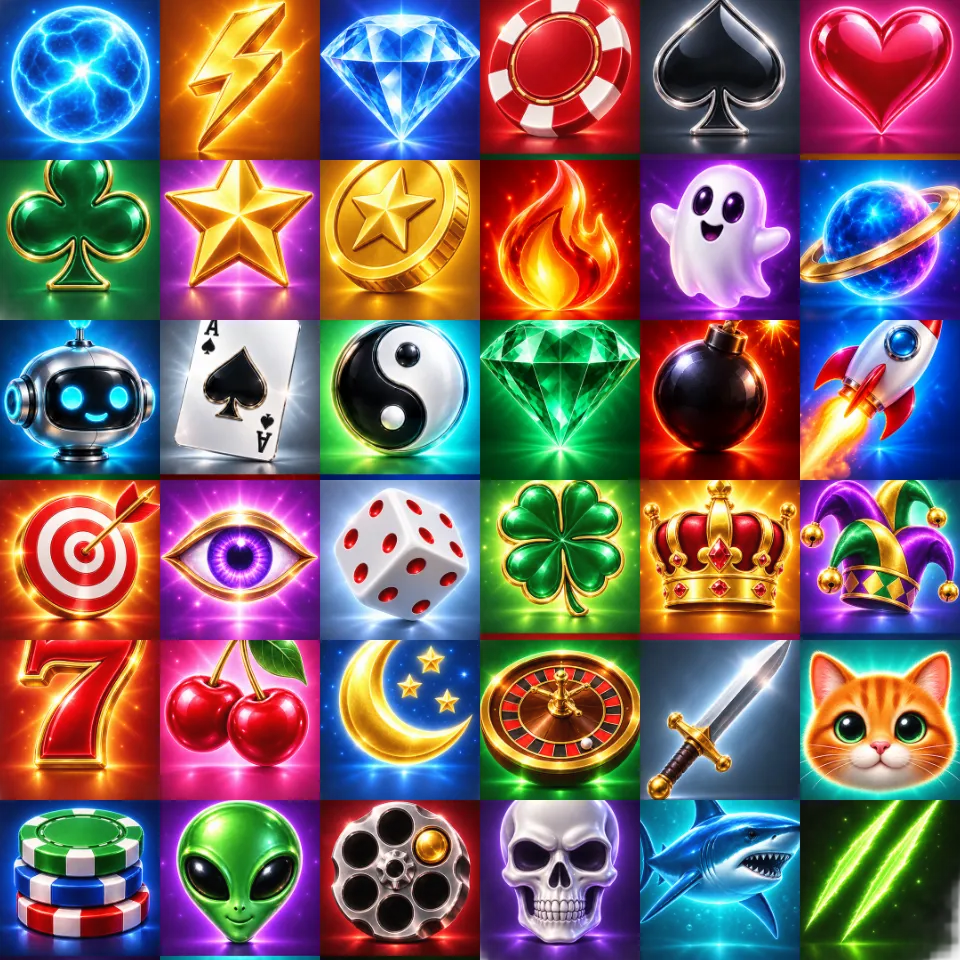
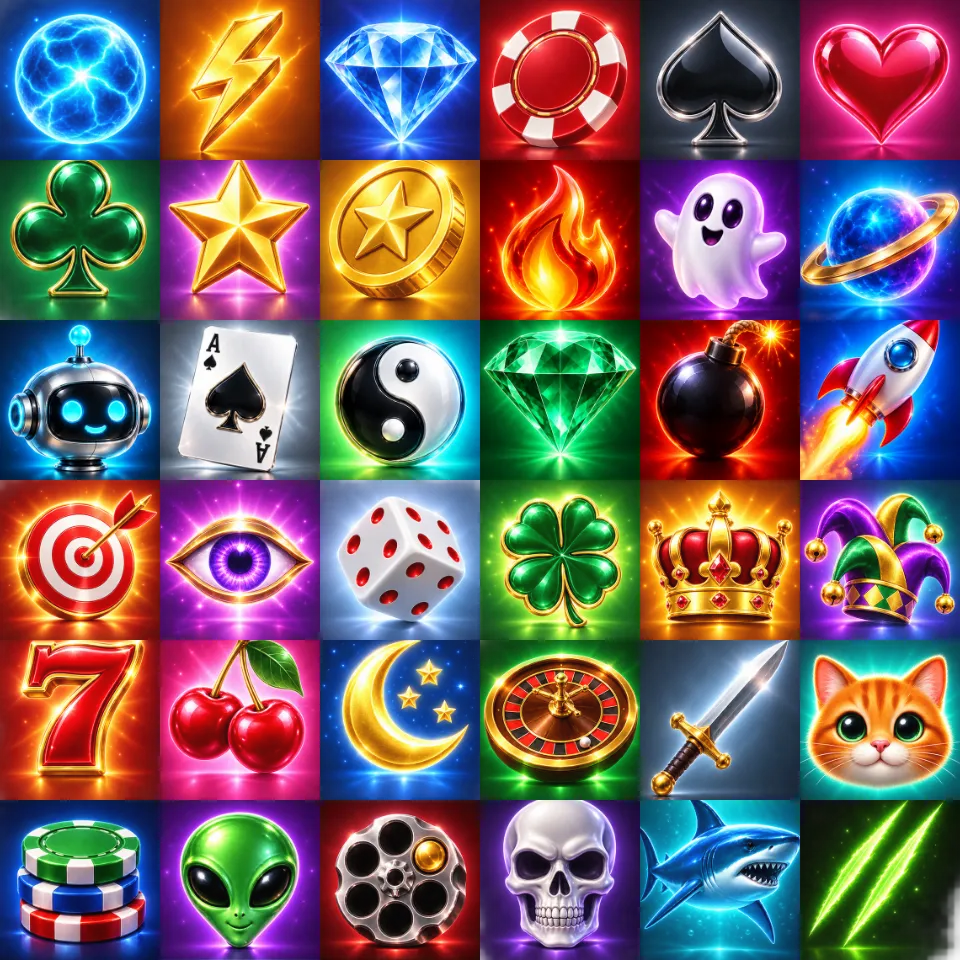
Case battles stay in sync across players; battle timeline shows case contents; inspector shows how many of a case are in the battle; re-centred profile pictures
- Online rounds play in the server's time slot: each animation is shortened to finish before the next reveal, a round whose slot has passed is shown instantly, and clients poll right after each scheduled reveal. Default ROUND_MS is now 9000 (turbo 4500) so a standard round's animation fits.
- Clicking a case in a running battle's timeline (online or demo) opens its contents and odds.
- The creator's case inspector shows how many copies are in the battle being built (and when it is full).
- Avatar atlas re-cropped around each painted tile's real centre (the sheets' grid lines are not at thirds); Spectrum/Hologram frames no longer cover the picture.

diff --git a/app.js b/app.js
@@ -683,11 +683,19 @@ async function animateRouletteTrack(track, viewport, targetIndex, seed, audioTra
 }
 
 // These reels decorate an already-authoritative server round. Never draw a result here.
-async function animateOnlineRound(room, battle, round, signal) {
+/**
+ * Plays one server round. `budgetMs` is the time left before the server reveals the next round;
+ * the spins and number roll are shortened to finish inside it (no budget = full length).
+ */
+async function animateOnlineRound(room, battle, round, signal, budgetMs = Infinity) {
   const item = CASES.find((candidate) => candidate.id === round.caseId);
   const target = 34;
   const turbo = battle.speed === "turbo" || fastReveal;
   const bonus = round.results.filter((result) => result.bonus);
+  const spinMs = turbo ? 950 : 5200, bonusSpinMs = turbo ? 950 : 3900, pauseMs = turbo ? 180 : 520;
+  // Fixed costs per spin (shock + settle) and after the spins (number reveal + totals count-up).
+  const nominal = 800 + spinMs + (bonus.length ? pauseMs + 800 + bonusSpinMs : 0) + (turbo ? 720 : 2000) + 750;
+  const scale = Number.isFinite(budgetMs) ? Math.max(0.15, Math.min(1, (budgetMs - 400) / nominal)) : 1;
   const status = room.querySelector(".online-playback-status");
   status.textContent = `ROUND ${round.index + 1} · OPENING ${item.name.toUpperCase()}`;
   const spin = async (results, bonusSpin = false) => {
@@ -708,14 +716,14 @@ async function animateOnlineRound(room, battle, round, signal) {
         viewport.classList.add(item.bonusType === "nested" ? "nested-bonus-active" : "gold-bonus-active");
         viewport.insertAdjacentHTML("beforeend", item.bonusType === "nested" ? `<div class="battle-gold-trigger battle-nested-trigger"><b>${caseImage(item)}</b><span>INNER CASE<small>BONUS SPIN</small></span></div>` : '<div class="battle-gold-trigger"><b class="gold-medallion">G</b><span>GOLD COIN<small>BONUS SPIN</small></span></div>');
       }
-      const duration = turbo ? 950 : bonusSpin ? 3900 : 5200;
+      const duration = Math.round((bonusSpin ? bonusSpinMs : spinMs) * scale);
       return animateRouletteTrack(track, viewport, target, `${battle.id}:${round.index}:${result.seat}:${bonusSpin}`, index === 0, duration, signal);
     }));
   };
   await spin(round.results);
   if (signal.aborted) return;
   if (bonus.length) {
-    await new Promise((resolve) => setTimeout(resolve, turbo ? 180 : 520));
+    await new Promise((resolve) => setTimeout(resolve, pauseMs * scale));
     if (signal.aborted) return;
     await spin(bonus, true);
   }
@@ -728,7 +736,7 @@ async function animateOnlineRound(room, battle, round, signal) {
   });
   status.textContent = "TRAITS LOCKED · ROLLING NUMBERS";
   const nodes = round.results.map((result) => room.querySelector(`#online-duel-number-${result.seat + 1}`));
-  await animateBattleDigits(nodes, round.results.map((result) => result.number), turbo, signal);
+  await animateBattleDigits(nodes, round.results.map((result) => result.number), turbo, signal, scale);
   if (signal.aborted) return;
   const counts = round.results.flatMap((result) => {
     const n = result.seat + 1;
@@ -744,13 +752,13 @@ async function animateOnlineRound(room, battle, round, signal) {
   await Promise.all(counts);
 }
 
-async function animateBattleDigits(numberNodes, numbers, turbo, signal) {
+async function animateBattleDigits(numberNodes, numbers, turbo, signal, scale = 1) {
   const cells = numberNodes.map((node) => [...node.children]);
   const timer = setInterval(() => cells.forEach((row) => row.slice(0, 6).forEach((cell) => { cell.textContent = Math.floor(Math.random() * 10); })), turbo ? 48 : 60);
   const stop = () => clearInterval(timer);
   signal?.addEventListener("abort", stop, { once: true });
   try {
-    await new Promise((resolve) => setTimeout(resolve, turbo ? 420 : 1200));
+    await new Promise((resolve) => setTimeout(resolve, (turbo ? 420 : 1200) * scale));
     stop();
     if (signal?.aborted) return;
     const targets = numbers.map(String);
@@ -765,7 +773,7 @@ async function animateBattleDigits(numberNodes, numbers, turbo, signal) {
         numberNodes[player].style.setProperty("--duel-count", target.length);
       });
       tone(170 + digit * 38, .08, "triangle", .035);
-      await new Promise((resolve) => setTimeout(resolve, turbo ? 50 : 130));
+      await new Promise((resolve) => setTimeout(resolve, (turbo ? 50 : 130) * scale));
     }
     if (signal?.aborted) return;
     cells.forEach((row, player) => {
@@ -1088,7 +1096,7 @@ function renderOnlineBattle(battle, opening, user, showSettlement) {
   return `<div class="battle-live-shell">
     <div class="battle-active-header"><div class="battle-round-counter"><span class="label">MATCH PROGRESS</span><strong class="count">${battle.state === "settled" ? "BATTLE COMPLETE" : `ROUND ${currentIndex + 1} / ${battle.caseIds.length}`}</strong><small>${escapeHtml(current.name.toUpperCase())}</small></div><div class="battle-cases-timeline" aria-label="Battle case timeline">${groups.map((group) => {
       const item = CASES.find((item) => item.id === group.id);
-      return `<div class="timeline-case-node ${battle.rounds.length > group.end ? "is-completed" : currentIndex >= group.start && currentIndex <= group.end ? "is-active" : ""}" style="--case-accent:${item.accent};--case-secondary:${item.secondary}" title="${escapeHtml(item.name)}"><div class="timeline-case-art">${caseImage(item)}</div><b class="case-multiplier-pill">×${group.quantity}</b><small>${escapeHtml(item.name)}</small></div>`;
+      return `<div class="timeline-case-node ${battle.rounds.length > group.end ? "is-completed" : currentIndex >= group.start && currentIndex <= group.end ? "is-active" : ""}" data-timeline-case="${item.id}" data-quantity="${battle.caseIds.filter((id) => id === item.id).length}" role="button" tabindex="0" style="--case-accent:${item.accent};--case-secondary:${item.secondary}" title="View contents of ${escapeHtml(item.name)}"><div class="timeline-case-art">${caseImage(item)}</div><b class="case-multiplier-pill">×${group.quantity}</b><small>${escapeHtml(item.name)}</small></div>`;
     }).join("")}</div><div class="battle-header-total"><span>TOTAL CASE VALUE</span><strong>${formatCredits(battle.entry)} CR</strong></div></div>
     <div class="battle-command online-room-meta"><div><span>ROUND</span><strong>${battle.rounds.length}/${battle.caseIds.length} REVEALED</strong></div><div><span>${battle.state === "settled" ? "FINAL POT" : "LIVE POT"}</span><strong class="online-pot">${formatCredits(pot)} CR</strong></div><div><span>MODE</span><strong>${escapeHtml(BATTLE_FORMATS[battle.format].label)} · ${battle.mode.toUpperCase()}</strong></div><div><span>SPEED</span><strong>${battle.speed.toUpperCase()}</strong></div><div class="battle-wallet"><span>YOUR ONLINE CREDITS</span><strong class="online-balance">${user ? `${formatCredits(user.balance)} CR` : "SPECTATING"}</strong></div></div>
     <div class="battle-ledger"><span>ENTRY <b>${formatCredits(battle.entry)} CR · ${battle.players.length} PLAYERS</b></span><span>SETTLEMENT <b>AUTOMATIC · SERVER VERIFIED</b></span></div>
@@ -1527,6 +1535,7 @@ function renderBattleBasket() {
     badge.hidden = count === 0;
   });
   $("#battle-clear-cases").disabled = !battleCaseIds.length;
+  renderInspectorCount();
   renderBattleCost();
 }
 
@@ -1544,11 +1553,30 @@ function renderBattleCreatorCases() {
   renderBattleBasket();
 }
 
-function inspectBattleCase(caseId) {
+/**
+ * Case contents and odds. From the creator it can add the case and shows how many are in the
+ * battle being built; from a running battle's timeline (`inBattle` = copies in that battle) it is read-only.
+ */
+function inspectBattleCase(caseId, { inBattle = null } = {}) {
   const item = CASES.find((candidate) => candidate.id === caseId);
   if (!item) return;
-  $("#battle-case-inspector-content").innerHTML = `<header style="--case-accent:${item.accent};--case-secondary:${item.secondary}"><div class="battle-inspector-art">${caseImage(item)}</div><div><span>${item.category} · ${item.risk.toUpperCase()} RISK</span><h2>${escapeHtml(item.name)}</h2><strong>${formatCredits(item.cost)} CR</strong></div><button type="button" data-add-battle-case="${item.id}">+ ADD TO BATTLE</button></header><div class="battle-inspector-odds"><span>CASE CONTENTS</span><b>FINAL ODDS</b></div><ol>${item.drops.map((drop) => `<li class="${drop.rarity}"><img src="${traitImage(drop.id)}" alt="" /><span><strong>${escapeHtml(drop.name)}</strong><small>${drop.rarity} · ${Math.round(drop.expectedEp).toLocaleString()} AVG EP</small></span><b>${formatChance(drop.finalChance)}%</b></li>`).join("")}</ol>`;
-  $("#battle-case-inspector").showModal();
+  const side = inBattle === null
+    ? `<div class="battle-inspector-add"><button type="button" data-add-battle-case="${item.id}">+ ADD TO BATTLE</button><small data-inspector-count="${item.id}"></small></div>`
+    : `<div class="battle-inspector-add"><small class="in-battle">×${inBattle} IN THIS BATTLE</small></div>`;
+  $("#battle-case-inspector-content").innerHTML = `<header style="--case-accent:${item.accent};--case-secondary:${item.secondary}"><div class="battle-inspector-art">${caseImage(item)}</div><div><span>${item.category} · ${item.risk.toUpperCase()} RISK</span><h2>${escapeHtml(item.name)}</h2><strong>${formatCredits(item.cost)} CR</strong></div>${side}</header><div class="battle-inspector-odds"><span>CASE CONTENTS</span><b>FINAL ODDS</b></div><ol>${item.drops.map((drop) => `<li class="${drop.rarity}"><img src="${traitImage(drop.id)}" alt="" /><span><strong>${escapeHtml(drop.name)}</strong><small>${drop.rarity} · ${Math.round(drop.expectedEp).toLocaleString()} AVG EP</small></span><b>${formatChance(drop.finalChance)}%</b></li>`).join("")}</ol>`;
+  renderInspectorCount();
+  if (!$("#battle-case-inspector").open) $("#battle-case-inspector").showModal();
+}
+
+/** "×2 IN THIS BATTLE" under the inspector's add button, kept in step with the basket. */
+function renderInspectorCount() {
+  const label = $("[data-inspector-count]");
+  if (!label) return;
+  const count = battleCaseIds.filter((id) => id === label.dataset.inspectorCount).length;
+  const full = battleCaseIds.length >= 20;
+  label.textContent = full ? `BATTLE FULL · ${count ? `×${count} OF THIS CASE` : "20 / 20 CASES"}` : count ? `×${count} IN THIS BATTLE · ${battleCaseIds.length} / 20 CASES` : "NOT IN THIS BATTLE YET";
+  label.classList.toggle("added", count > 0);
+  $("#battle-case-inspector [data-add-battle-case]").disabled = full;
 }
 
 function renderBattleTimeline() {
@@ -1561,7 +1589,7 @@ function renderBattleTimeline() {
     timeline.dataset.signature = signature;
     timeline.innerHTML = groups.map((group, index) => {
       const item = duelMatch.cases[group.start];
-      return `<div class="timeline-case-node" data-timeline-group="${index}" style="--case-accent:${item.accent};--case-secondary:${item.secondary}" title="${escapeHtml(item.name)}"><div class="timeline-case-art">${caseImage(item)}</div><b class="case-multiplier-pill">×${group.quantity}</b><small>${escapeHtml(item.name)}</small></div>`;
+      return `<div class="timeline-case-node" data-timeline-group="${index}" data-timeline-case="${item.id}" data-quantity="${ids.filter((id) => id === item.id).length}" role="button" tabindex="0" style="--case-accent:${item.accent};--case-secondary:${item.secondary}" title="View contents of ${escapeHtml(item.name)}"><div class="timeline-case-art">${caseImage(item)}</div><b class="case-multiplier-pill">×${group.quantity}</b><small>${escapeHtml(item.name)}</small></div>`;
     }).join("");
   }
   groups.forEach((group, index) => {
@@ -1613,6 +1641,17 @@ $("#battle-case-inspector").addEventListener("click", (event) => {
   if (event.target === $("#battle-case-inspector")) $("#battle-case-inspector").close();
 });
 $(".battle-inspector-close").addEventListener("click", () => $("#battle-case-inspector").close());
+// The inspector also opens during a battle, when the creator (its original parent) is hidden.
+document.body.append($("#battle-case-inspector"));
+const openTimelineCase = (node) => inspectBattleCase(node.dataset.timelineCase, { inBattle: Number(node.dataset.quantity) });
+document.addEventListener("click", (event) => {
+  const node = event.target.closest("[data-timeline-case]");
+  if (node) openTimelineCase(node);
+});
+document.addEventListener("keydown", (event) => {
+  const node = event.target.closest?.("[data-timeline-case]");
+  if (node && (event.key === "Enter" || event.key === " ")) { event.preventDefault(); openTimelineCase(node); }
+});
 $("#battle-case-accumulator").addEventListener("click", (event) => {
   const button = event.target.closest("[data-remove-battle-case]");
   if (!button) return;

diff --git a/multiplayer.js b/multiplayer.js
@@ -50,6 +50,14 @@ export function initMultiplayer({ navigate, getBattleSelection, caseImage, anima
     pendingCreate = null,
     requestEpoch = 0;
   let presentation = null;
+  // Server clock minus ours, so every viewer plays a round in the server's time slot.
+  let clockOffset = 0;
+  const serverNow = () => Date.now() + clockOffset;
+  const syncClock = (result) => {
+    if (Number.isFinite(result?.serverTime)) clockOffset = result.serverTime - Date.now();
+  };
+  /** Server time at which the round after `round` is revealed (end of this round's slot). */
+  const slotEnd = (battle, round) => round.scheduledAt + battle.intervalMs;
   const userListeners = new Set();
   let notifiedUser = Symbol("initial");
   const reducedMotion = matchMedia("(prefers-reduced-motion: reduce)");
@@ -332,6 +340,9 @@ export function initMultiplayer({ navigate, getBattleSelection, caseImage, anima
     // Polls and account refreshes must not replace a moving reel.
     if (view.controller) return;
     if (selected.state !== "settled") view.balance = user?.balance;
+    // Stay on the server's round: a round whose slot is (nearly) over is shown without its animation,
+    // so a slow device, a late poll or a backgrounded tab can never leave this viewer rounds behind.
+    while (selected.rounds[view.revealed] && slotEnd(selected, selected.rounds[view.revealed]) - serverNow() < 900) view.revealed++;
     const round = selected.rounds[view.revealed];
     if (!round) {
       paintRoom(selected, null, force);
@@ -350,7 +361,7 @@ export function initMultiplayer({ navigate, getBattleSelection, caseImage, anima
     paintRoom(snapshot, round, true);
     (async () => {
       try {
-        await animateRound(room, snapshot, round, controller.signal);
+        await animateRound(room, snapshot, round, controller.signal, slotEnd(selected, round) - serverNow());
         if (controller.signal.aborted) return;
         view.revealed++;
       } catch (error) {
@@ -417,7 +428,9 @@ export function initMultiplayer({ navigate, getBattleSelection, caseImage, anima
   async function viewBattle(id) {
     if (navigate("online") === false) return;
     await action(async () => {
-      selected = (await api(`/battles/${encodeURIComponent(id)}`)).battle;
+      const result = await api(`/battles/${encodeURIComponent(id)}`);
+      syncClock(result);
+      selected = result.battle;
       renderRoom(true);
       const url = new URL(location.href);
       url.searchParams.set("battle", id);
@@ -435,6 +448,7 @@ export function initMultiplayer({ navigate, getBattleSelection, caseImage, anima
       const me = token ? await api("/me") : null;
       const room = selectedId ? await api(`/battles/${selectedId}`) : null;
       if (epoch !== requestEpoch || selectedId !== selected?.id) return;
+      syncClock(room || result);
       battles = result.battles;
       online = true;
       if (me) {
@@ -617,15 +631,19 @@ export function initMultiplayer({ navigate, getBattleSelection, caseImage, anima
       await refresh(true);
     });
   };
+  /** Poll delay: right after the next round is revealed while watching a running battle, else 5s. */
+  function pollDelay() {
+    if (selected?.state !== "running" || currentMode !== "online") return 5000;
+    const nextReveal = selected.startedAt + (selected.rounds.length + 1) * selected.intervalMs;
+    const wait = nextReveal - serverNow() + 120;
+    return Number.isFinite(wait) ? Math.max(250, Math.min(1500, wait)) : 1500;
+  }
   function schedule() {
     clearTimeout(timer);
-    timer = setTimeout(
-      async () => {
-        if (config && !busy) await refresh();
-        schedule();
-      },
-      selected?.state === "running" && currentMode === "online" ? 1500 : 5000,
-    );
+    timer = setTimeout(async () => {
+      if (config && !busy) await refresh();
+      schedule();
+    }, pollDelay());
   }
   document.addEventListener("visibilitychange", () => {
     renderRoom();

diff --git a/styles.css b/styles.css
@@ -1207,6 +1207,13 @@ body.roll-complete .reel span { color: var(--roll-rank-color); text-shadow: 0 0 
 #battle-case-inspector-content header h2 { margin: 6px 0; font: 900 31px/1 "Barlow Condensed", sans-serif; }
 #battle-case-inspector-content header strong { color: var(--cyan); font: 900 19px/1 "Barlow Condensed", sans-serif; }
 #battle-case-inspector-content header button { padding: 11px; border: 0; border-radius: 5px; color: white; cursor: pointer; background: #ff3e6c; font-size: 8px; font-weight: 900; }
+.battle-inspector-add { display: grid; gap: 7px; text-align: center; }
+.battle-inspector-add small { color: #8996a1; font-size: 8px; font-weight: 800; letter-spacing: .1em; }
+.battle-inspector-add small.added, .battle-inspector-add small.in-battle { color: var(--cyan); }
+.battle-inspector-add small.in-battle { padding: 10px 8px; border: 1px solid color-mix(in srgb, var(--cyan) 40%, transparent); border-radius: 6px; font-size: 10px; }
+#battle-case-inspector-content header button:disabled { opacity: .45; cursor: not-allowed; }
+.timeline-case-node[data-timeline-case] { cursor: pointer; }
+.timeline-case-node[data-timeline-case]:hover, .timeline-case-node[data-timeline-case]:focus-visible { border-color: var(--case-accent); outline: none; }
 .battle-inspector-odds { display: flex; justify-content: space-between; padding: 12px 18px; color: #8996a1; font-size: 7px; letter-spacing: .14em; }
 #battle-case-inspector-content ol { display: grid; grid-template-columns: 1fr 1fr; gap: 6px; padding: 0 14px 16px; list-style: none; }
 #battle-case-inspector-content li { --accent: #9ba5ae; display: grid; grid-template-columns: 38px minmax(0, 1fr) auto; align-items: center; gap: 9px; padding: 8px; border: 1px solid color-mix(in srgb, var(--accent) 35%, #303944); border-radius: 5px; background: #121720; }
@@ -1243,7 +1250,7 @@ body.roll-complete .reel span { color: var(--roll-rank-color); text-shadow: 0 0 
   .duel-arena[data-player-count="6"] { grid-template-columns: 1fr; }
   #battle-case-inspector-content > header { grid-template-columns: 90px minmax(0, 1fr); }
   .battle-inspector-art { width: 80px; height: 74px; }
-  #battle-case-inspector-content header button { grid-column: 1 / -1; }
+  #battle-case-inspector-content header .battle-inspector-add { grid-column: 1 / -1; }
   #battle-case-inspector-content ol { grid-template-columns: 1fr; }
   .battle-winner-banner { padding: 13px; }
   .battle-winner-banner > b { position: static; display: block; margin-top: 8px; transform: none; }

diff --git a/server.js b/server.js
@@ -72,7 +72,8 @@ export async function createServer(options = {}) {
   const env = options.env || process.env,
     now = options.now || Date.now;
   const devAuth = env.DEV_AUTH === "1" && env.NODE_ENV !== "production";
-  const roundMs = Math.max(100, Number(env.ROUND_MS || 4000));
+  // Long enough for a standard round's opening animation (spin, number roll, totals).
+  const roundMs = Math.max(100, Number(env.ROUND_MS || 9000));
   const waitingMs = Math.max(1000, Number(env.WAITING_MS || 900000));
   if (!Number.isFinite(roundMs) || !Number.isFinite(waitingMs))
     throw new Error("Invalid round or waiting duration");

diff --git a/cosmetics.css b/cosmetics.css
@@ -43,6 +43,9 @@
   z-index: -1;
   border-radius: 50%;
   background: conic-gradient(#ff4d6d, #ffd43b, #c7ff36, #53e7ff, #ae70ff, #ff4fd8, #ff4d6d);
+  /* Only the 4px ring shows; the picture underneath stays visible. */
+  -webkit-mask: radial-gradient(farthest-side, transparent calc(100% - 4.5px), #000 calc(100% - 4px));
+  mask: radial-gradient(farthest-side, transparent calc(100% - 4.5px), #000 calc(100% - 4px));
   animation: nz-spin 3s linear infinite;
 }
 .nz-avatar[data-frame="rainbow"], .nz-avatar[data-frame="holo"] { box-shadow: 0 0 0 1px #0b0e17; }

diff --git a/README.md b/README.md
@@ -93,7 +93,7 @@ Run **one instance** of this Node service with either Turso or a persistent loca
 | `PORT`                | Backend HTTP port, defaults to 4173                                  |
 | `HOST`                | Bind address, defaults to `0.0.0.0`                                  |
 | `ALLOWED_ORIGINS`     | Comma-separated exact frontend origins; same-origin works without it |
-| `ROUND_MS`            | Standard reveal interval, default 4000; fast mode halves it          |
+| `ROUND_MS`            | Standard reveal interval, default 9000; fast mode halves it          |
 | `WAITING_MS`          | Waiting-lobby lifetime, default 900000 (15 minutes)                  |
 
 For GitHub Pages, set `API_BASE` in `config.js` to your deployed backend's HTTPS origin, and set backend `ALLOWED_ORIGINS=https://daminion73.github.io`. Deploy the frontend configuration separately. No backend credentials go in `config.js`. CORS includes error responses so expired sessions can be recovered. Configure provider rate limiting at the edge as well: the built-in limiter groups by socket address, so reverse-proxy clients share its budget.
